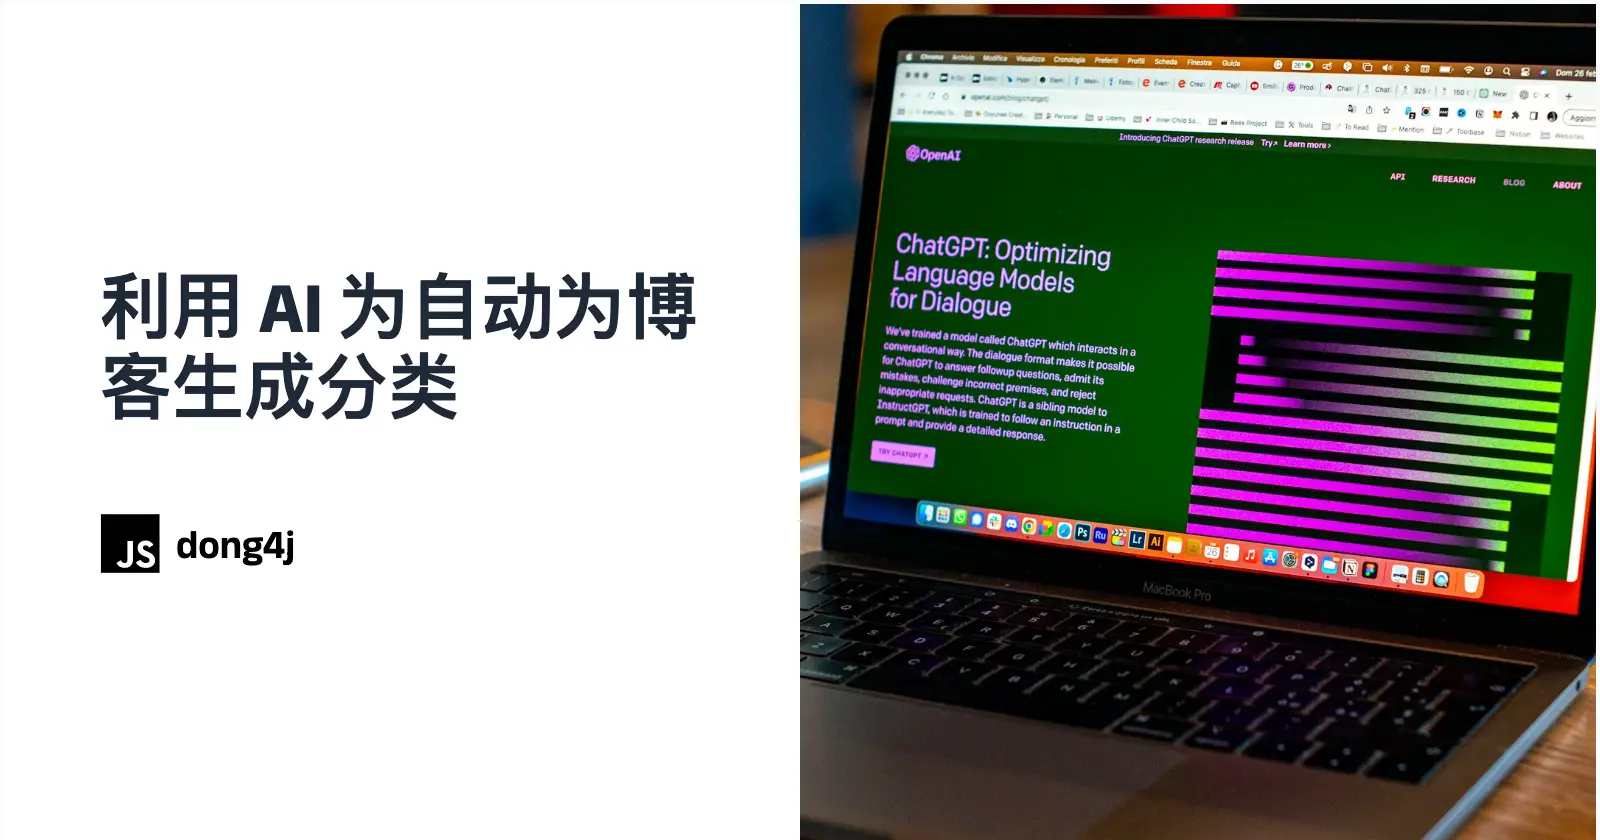
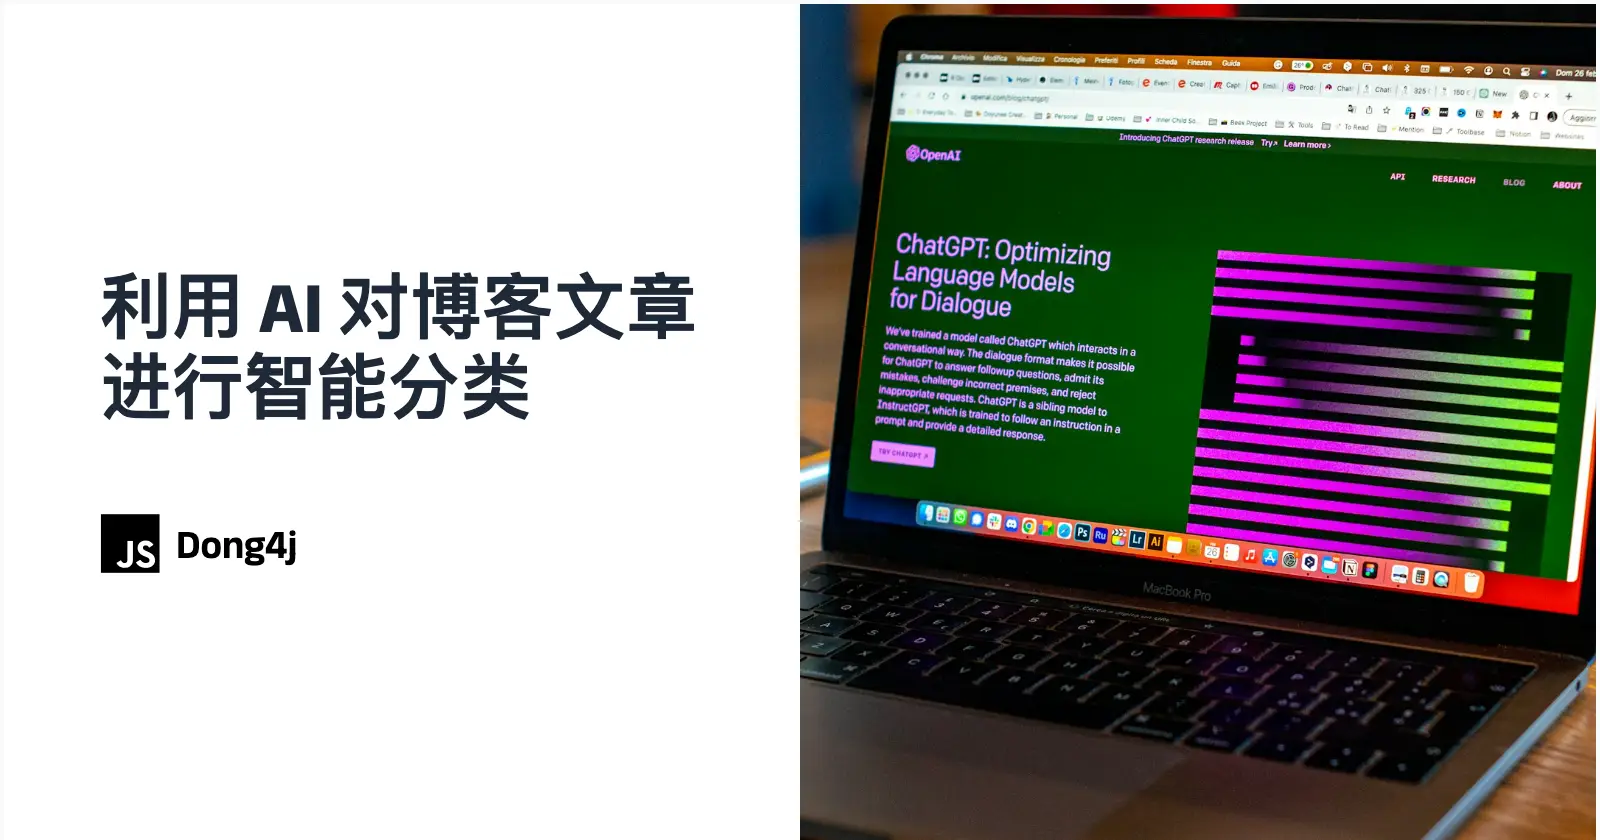
修改 conver

Changed region(s): [[0.0625, 0.3095, 0.4375, 0.4952], [0.0938, 0.619, 0.1875, 0.681]]

diff --git a/source/_drafts/hoarder.md b/source/_drafts/hoarder.md
@@ -11,7 +11,8 @@ tags:
   - NAS 部署
   - 内容存储
   - 全文搜索
-description: Hoarder 是一款开源的 AI 书签管理工具，专为 NAS 部署设计。它通过 AI 技术自动标记内容，支持链接、笔记、图像和 PDF
+description:
+  Hoarder 是一款开源的 AI 书签管理工具，专为 NAS 部署设计。它通过 AI 技术自动标记内容，支持链接、笔记、图像和 PDF
   的存储。此外，Hoarder 还提供全文搜索功能，以及 OCR 技术从图像中提取文本。该工具还支持多种平台，包括 Chrome 和 Firefox 插件、iOS
   和 Android 应用等。
 abbrlink: 5f6
@@ -90,11 +91,7 @@ keywords:
 
 ![20241230101924_lrBGL2Y3.webp](./hoarder/20241230101924_lrBGL2Y3.webp)
 
-
-
 ## 本地部署
-
-
 
 ```yml
 version: "3.8"
@@ -194,19 +191,9 @@ MEILI_MASTER_KEY=[36 位随机字符串]
 NEXTAUTH_URL=http://localhost:3000
 ```
 
-
-
-
-
-
-
 ## AI 加持
 
-
-
 ### Ollama
-
-
 
 ```
 HTTPS_PROXY
@@ -214,43 +201,37 @@ HTTP_PROXY
 NO_PROXY
 OLLAMA_DEBUG:false
 OLLAMA_FLASH_ATTENTION:false
-OLLAMA_GPU_OVERHEAD:0 
-OLLAMA_HOST:http://0.0.0.0:11434 
-OLLAMA_KEEP_ALIVE:5m0s 
-OLLAMA_KV_CACHE_TYPE: 
-OLLAMA_LLM_LIBRARY: 
-OLLAMA_LOAD_TIMEOUT:5m0s 
-OLLAMA_MAX_LOADED_MODELS:0 
-OLLAMA_MAX_QUEUE:512 
-OLLAMA_MODELS:/Volumes/AI/models/ollama 
-OLLAMA_MULTIUSER_CACHE:false 
-OLLAMA_NOHISTORY:false 
-OLLAMA_NOPRUNE:false 
-OLLAMA_NUM_PARALLEL:0 
-OLLAMA_ORIGINS:[http://localhost https://localhost http://localhost:* https://localhost:* http://127.0.0.1 https://127.0.0.1 http://127.0.0.1:* https://127.0.0.1:* http://0.0.0.0 https://0.0.0.0 http://0.0.0.0:* https://0.0.0.0:* app://* file://* tauri://* vscode-webview://*] 
-OLLAMA_SCHED_SPREAD:false 
-http_proxy: 
-https_proxy: 
+OLLAMA_GPU_OVERHEAD:0
+OLLAMA_HOST:http://0.0.0.0:11434
+OLLAMA_KEEP_ALIVE:5m0s
+OLLAMA_KV_CACHE_TYPE:
+OLLAMA_LLM_LIBRARY:
+OLLAMA_LOAD_TIMEOUT:5m0s
+OLLAMA_MAX_LOADED_MODELS:0
+OLLAMA_MAX_QUEUE:512
+OLLAMA_MODELS:/Volumes/AI/models/ollama
+OLLAMA_MULTIUSER_CACHE:false
+OLLAMA_NOHISTORY:false
+OLLAMA_NOPRUNE:false
+OLLAMA_NUM_PARALLEL:0
+OLLAMA_ORIGINS:[http://localhost https://localhost http://localhost:* https://localhost:* http://127.0.0.1 https://127.0.0.1 http://127.0.0.1:* https://127.0.0.1:* http://0.0.0.0 https://0.0.0.0 http://0.0.0.0:* https://0.0.0.0:* app://* file://* tauri://* vscode-webview://*]
+OLLAMA_SCHED_SPREAD:false
+http_proxy:
+https_proxy:
 no_proxy:
 
 ```
 
-
-
-- **OLLAMA_HOST：**设置网络监听端口。当我们设置OLLAMA_HOST为0.0.0.0时，就相当于开放端口，可以让人意外部网络访问。
-- **OLLAMA_MODELS：**设置模型的存储路径。当我们设置OLLAMA_MODELS=F:\OllamaCache，就相当于给模型们在F盘建了一个仓库，让它们远离C盘。
-- **OLLAMA_KEEP_ALIVE：** 它决定了我们的模型们可以在内存里的存活时间。设置OLLAMA_KEEP_ALIVE=24h，就好比给模型们装上了一块超大容量电池，让它们可以连续工作24小时，时刻待命。
-- **OLLAMA_PORT：**用来修改ollama的默认端口，默认是11434，可以在这里改为你想要的端口。
-- **OLLAMA_NUM_PARALLEL：**限制了Ollama可以同时加载的模型数量
+- **OLLAMA_HOST：**设置网络监听端口。当我们设置 OLLAMA_HOST 为 0.0.0.0 时，就相当于开放端口，可以让人意外部网络访问。
+- **OLLAMA_MODELS：**设置模型的存储路径。当我们设置 OLLAMA_MODELS=F:\OllamaCache，就相当于给模型们在 F 盘建了一个仓库，让它们远离 C 盘。
+- **OLLAMA_KEEP_ALIVE：** 它决定了我们的模型们可以在内存里的存活时间。设置 OLLAMA_KEEP_ALIVE=24h，就好比给模型们装上了一块超大容量电池，让它们可以连续工作 24 小时，时刻待命。
+- **OLLAMA_PORT：**用来修改 ollama 的默认端口，默认是 11434，可以在这里改为你想要的端口。
+- **OLLAMA_NUM_PARALLEL：**限制了 Ollama 可以同时加载的模型数量
 - **OLLAMA_MAX_LOADED_MODELS：**可以确保系统资源得到合理分配。
-
-
 
 ### 本地部署
 
-
-
-### ⚠ 如果你使用 Docker 部署 Dify 和 Ollama，你可能会遇到以下错误:
+### 如果你使用 Docker 部署 Dify 和 Ollama，你可能会遇到以下错误:
 
 ```
 httpconnectionpool(host=127.0.0.1, port=11434): max retries exceeded with url:/cpi/chat (Caused by NewConnectionError('<urllib3.connection.HTTPConnection object at 0x7f8562812c20>: fail to establish a new connection:[Errno 111] Connection refused'))
@@ -302,11 +283,7 @@ httpconnectionpool(host=localhost, port=11434): max retries exceeded with url:/c
    systemctl restart ollama
    ```
 
-###  
-
-
-
-
+###
 
 ## 客户端
 
@@ -314,4 +291,4 @@ httpconnectionpool(host=localhost, port=11434): max retries exceeded with url:/c
 
 ## 参看:
 
-[体验高效的阅读和收藏，NAS部署基于AI的书签和个人知识库管理工具『Hoarder』](https://post.smzdm.com/p/adm85p5d/)
+[体验高效的阅读和收藏，NAS 部署基于 AI 的书签和个人知识库管理工具『Hoarder』](https://post.smzdm.com/p/adm85p5d/)

diff --git a/source/_posts/2024/generate-blog-category.md b/source/_posts/2024/generate-blog-category.md
@@ -1,5 +1,5 @@
 ---
-title: 利用 AI 为自动为博客生成分类
+title: 利用 AI 对博客文章进行智能分类
 categories:
   - "AI:人工智能"
 ai:
